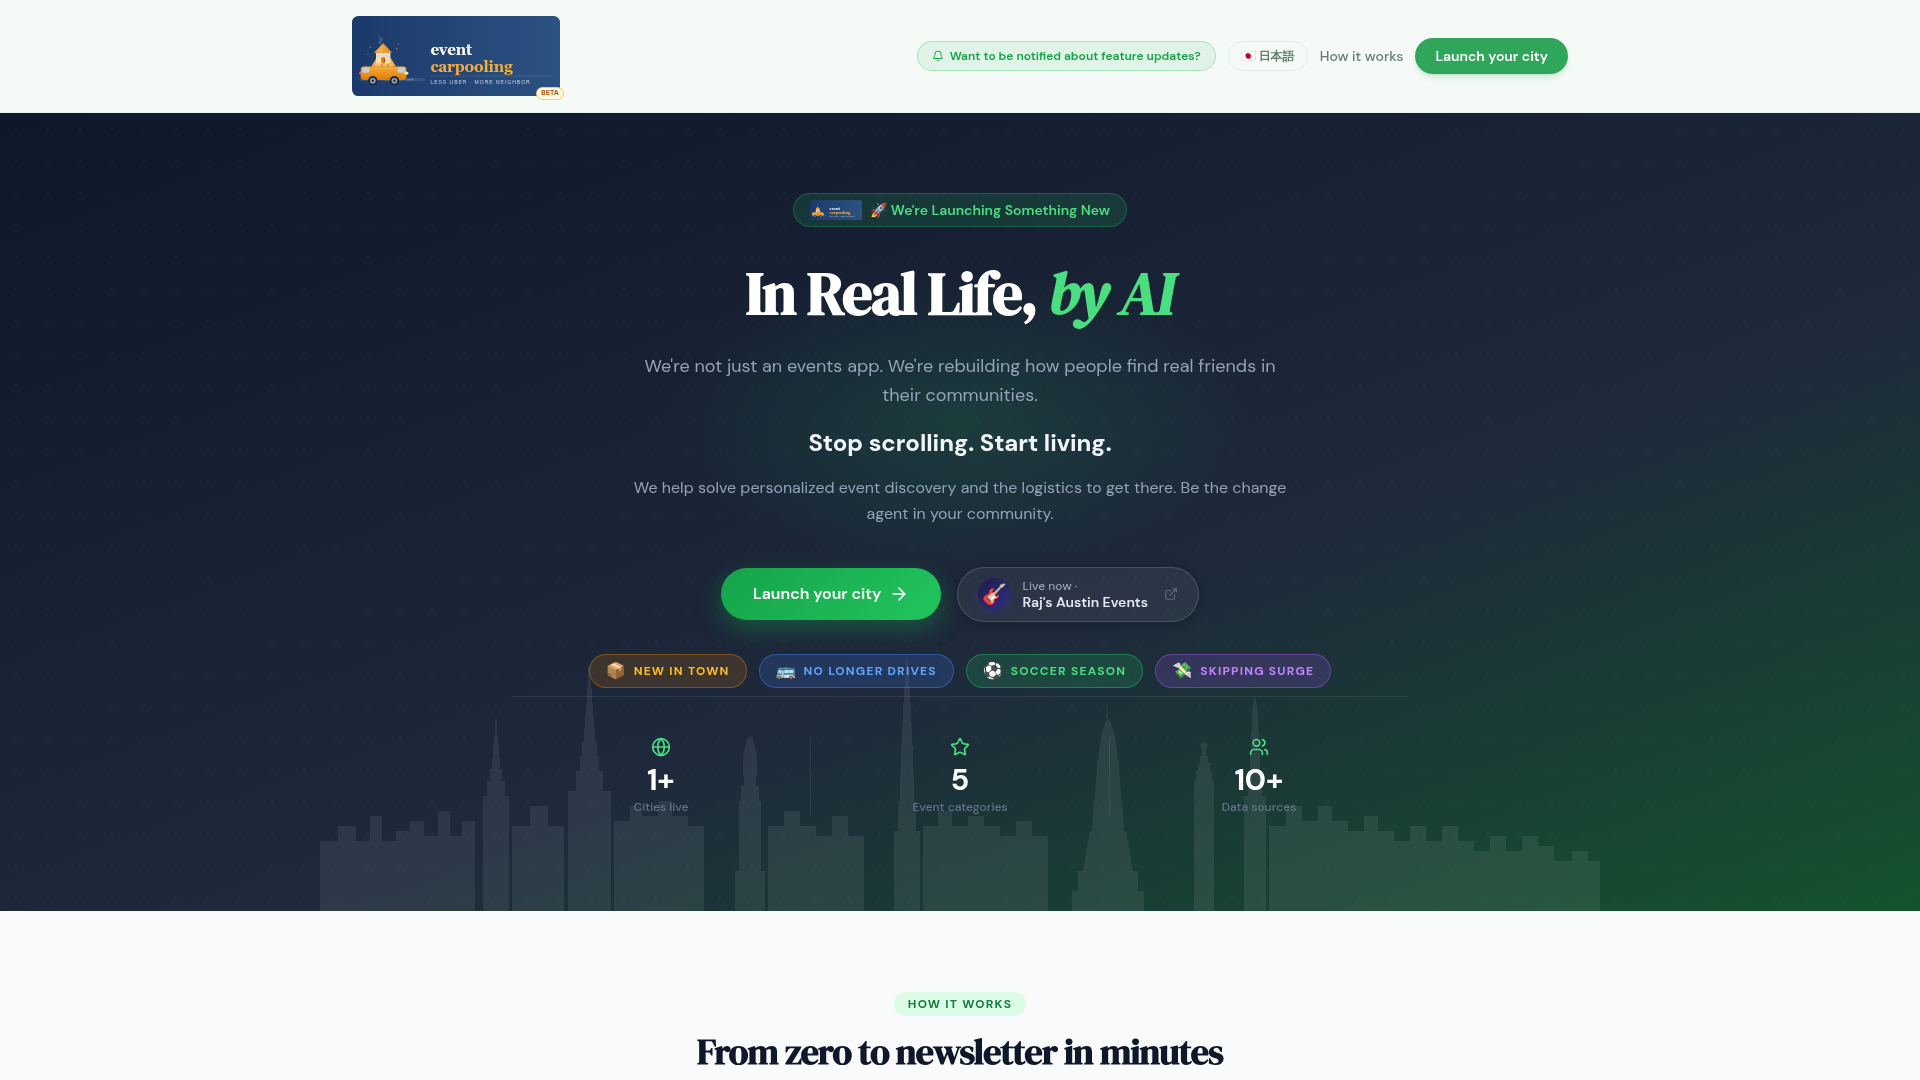
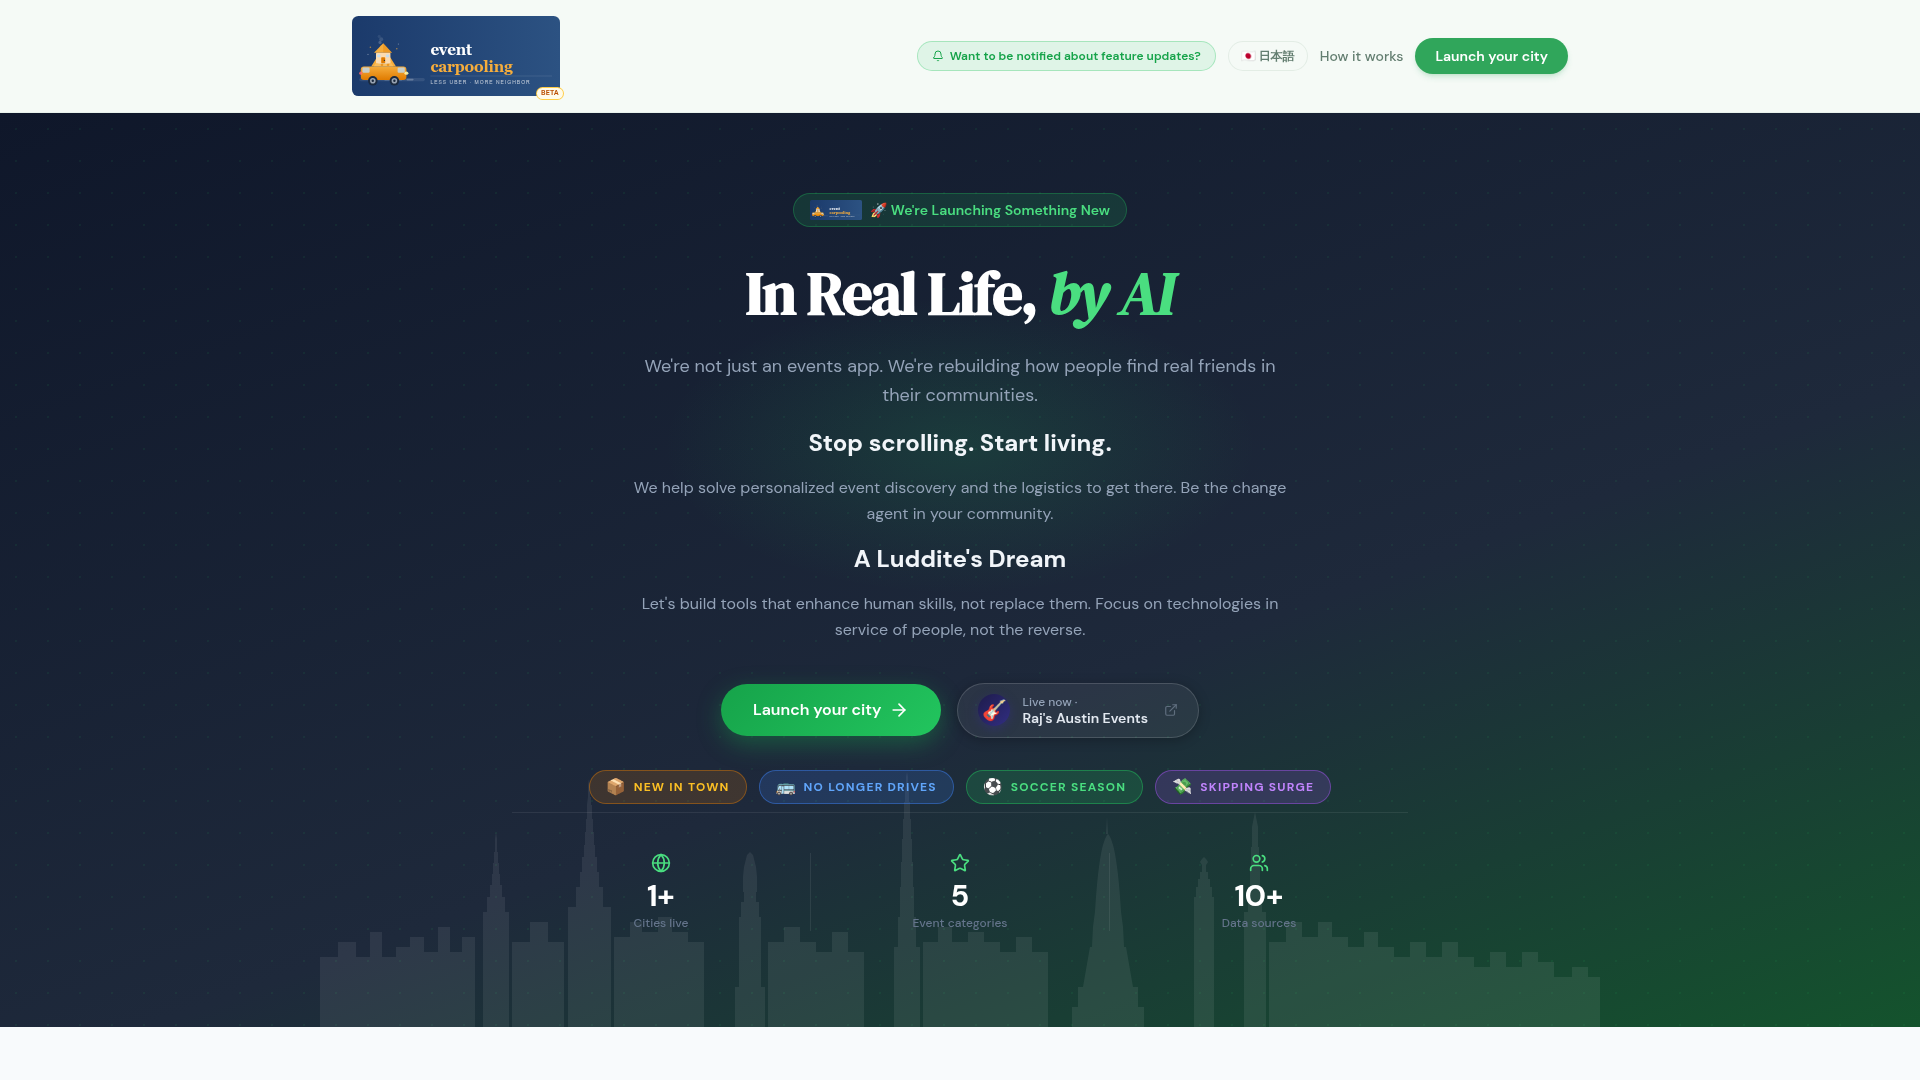
Add a ride sharing feature section to the email newsletter
Add the "Ride" feature block to the email template in `artifacts/api-server/src/lib/emailService.ts` to include community ride sharing information.

Replit-Commit-Author: Agent
Replit-Commit-Session-Id: ae19be08-c4b7-4be9-b60e-9fb1cb0f1f1e
Replit-Commit-Checkpoint-Type: full_checkpoint
Replit-Commit-Event-Id: b6362971-f289-4d9c-bae9-1be8edcd22cc
Replit-Commit-Screenshot-Url: https://storage.googleapis.com/screenshot-production-us-central1/b3a93a80-c9a5-46a0-8e8c-7cb9c2ba76e5/ae19be08-c4b7-4be9-b60e-9fb1cb0f1f1e/I27bkND
Replit-Helium-Checkpoint-Created: true

Changed region(s): [[0.0, 0.825, 1.0, 1.0], [0.2812, 0.4889, 0.7188, 0.7639]]

diff --git a/artifacts/api-server/src/lib/emailService.ts b/artifacts/api-server/src/lib/emailService.ts
@@ -454,6 +454,48 @@ export function buildDigestEmailHtml(digest: {
       </div>
     </div>
 
+    <!-- Ride Feature Block -->
+    <div style="background:linear-gradient(135deg,#064e3b 0%,#065f46 55%,#047857 100%); border-radius:16px; padding:28px 24px; margin-bottom:24px;">
+      <table style="width:100%; border-collapse:collapse;">
+        <tr>
+          <td style="vertical-align:middle; padding-right:16px; width:56px;">
+            <div style="width:48px; height:48px; border-radius:10px; background:rgba(255,255,255,0.1); display:flex; align-items:center; justify-content:center; font-size:28px; text-align:center; line-height:48px;">🤝</div>
+          </td>
+          <td style="vertical-align:middle;">
+            <p style="margin:0 0 2px; color:#6ee7b7; font-size:11px; font-weight:700; text-transform:uppercase; letter-spacing:1px;">🚗 Upcoming Feature</p>
+            <p style="margin:0; color:#ecfdf5; font-size:18px; font-weight:800; letter-spacing:-0.3px;">The Ride</p>
+          </td>
+        </tr>
+      </table>
+
+      <p style="margin:16px 0 14px; color:#a7f3d0; font-size:14px; line-height:1.7;">
+        A community rides safety net matching people who can't drive with trusted neighbors who can — so seniors reach their appointments, students make it to class, and no one misses what matters because they couldn't get there.
+      </p>
+
+      <table style="width:100%; border-collapse:collapse; margin-bottom:16px;">
+        <tr>
+          <td style="padding:4px 8px 4px 0;">
+            <span style="display:inline-block; background:rgba(255,255,255,0.07); color:rgba(167,243,208,0.9); border:1px solid rgba(52,211,153,0.2); border-radius:100px; padding:6px 14px; font-size:13px; font-weight:600; white-space:nowrap;">🏥 Medical Appointments</span>
+          </td>
+          <td style="padding:4px 0 4px 8px;">
+            <span style="display:inline-block; background:rgba(255,255,255,0.07); color:rgba(167,243,208,0.9); border:1px solid rgba(52,211,153,0.2); border-radius:100px; padding:6px 14px; font-size:13px; font-weight:600; white-space:nowrap;">🎓 School &amp; Classes</span>
+          </td>
+        </tr>
+        <tr>
+          <td style="padding:4px 8px 4px 0;">
+            <span style="display:inline-block; background:rgba(255,255,255,0.07); color:rgba(167,243,208,0.9); border:1px solid rgba(52,211,153,0.2); border-radius:100px; padding:6px 14px; font-size:13px; font-weight:600; white-space:nowrap;">🛒 Groceries &amp; Pharmacy</span>
+          </td>
+          <td style="padding:4px 0 4px 8px;">
+            <span style="display:inline-block; background:rgba(255,255,255,0.07); color:rgba(167,243,208,0.9); border:1px solid rgba(52,211,153,0.2); border-radius:100px; padding:6px 14px; font-size:13px; font-weight:600; white-space:nowrap;">💼 Job Interviews</span>
+          </td>
+        </tr>
+      </table>
+
+      <div style="text-align:center;">
+        <a href="https://eventcarpooling.com" style="display:inline-block; background:#6ee7b7; color:#064e3b; font-size:14px; font-weight:700; text-decoration:none; padding:12px 28px; border-radius:100px; letter-spacing:-0.2px;">Learn more at EventCarpooling.com →</a>
+      </div>
+    </div>
+
     <!-- Japan Launch Feature Block -->
     <div style="background:linear-gradient(135deg,#064e3b 0%,#065f46 55%,#047857 100%); border-radius:16px; padding:24px; margin-bottom:24px;">
       <table style="width:100%; border-collapse:collapse;">
